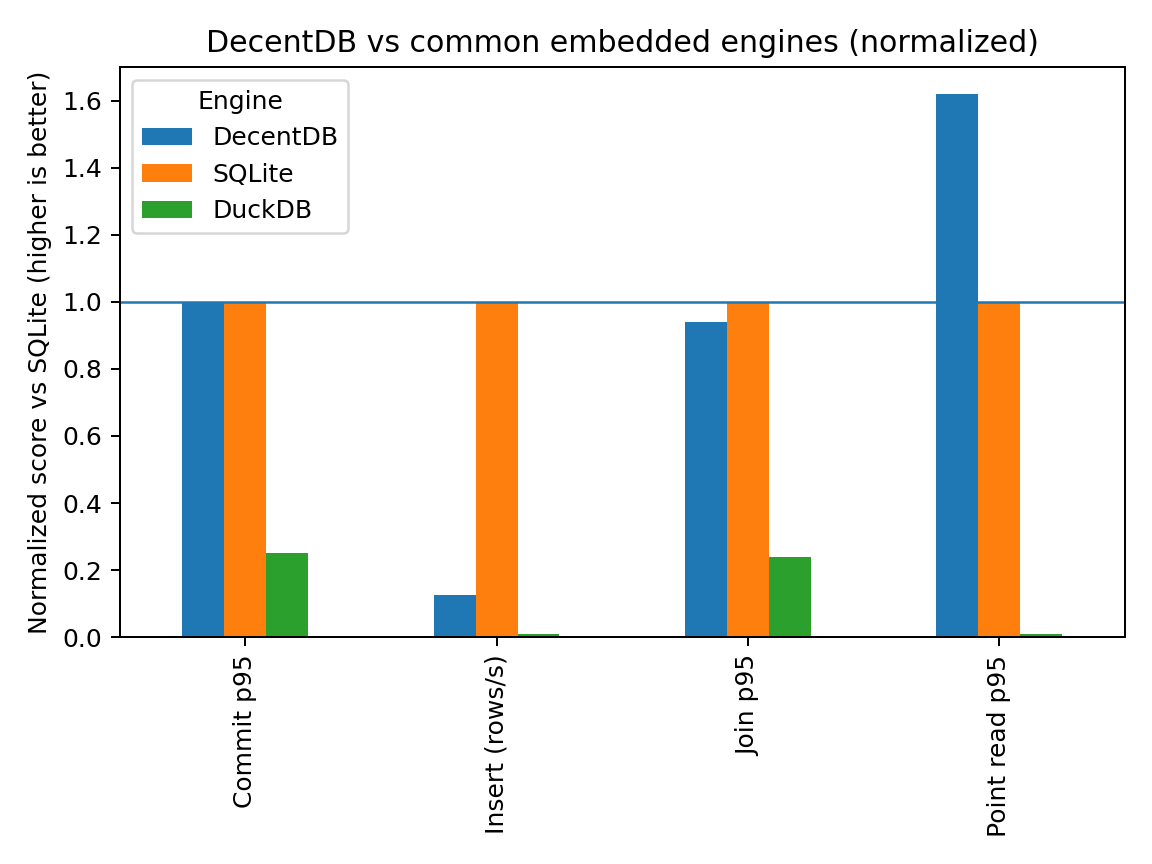
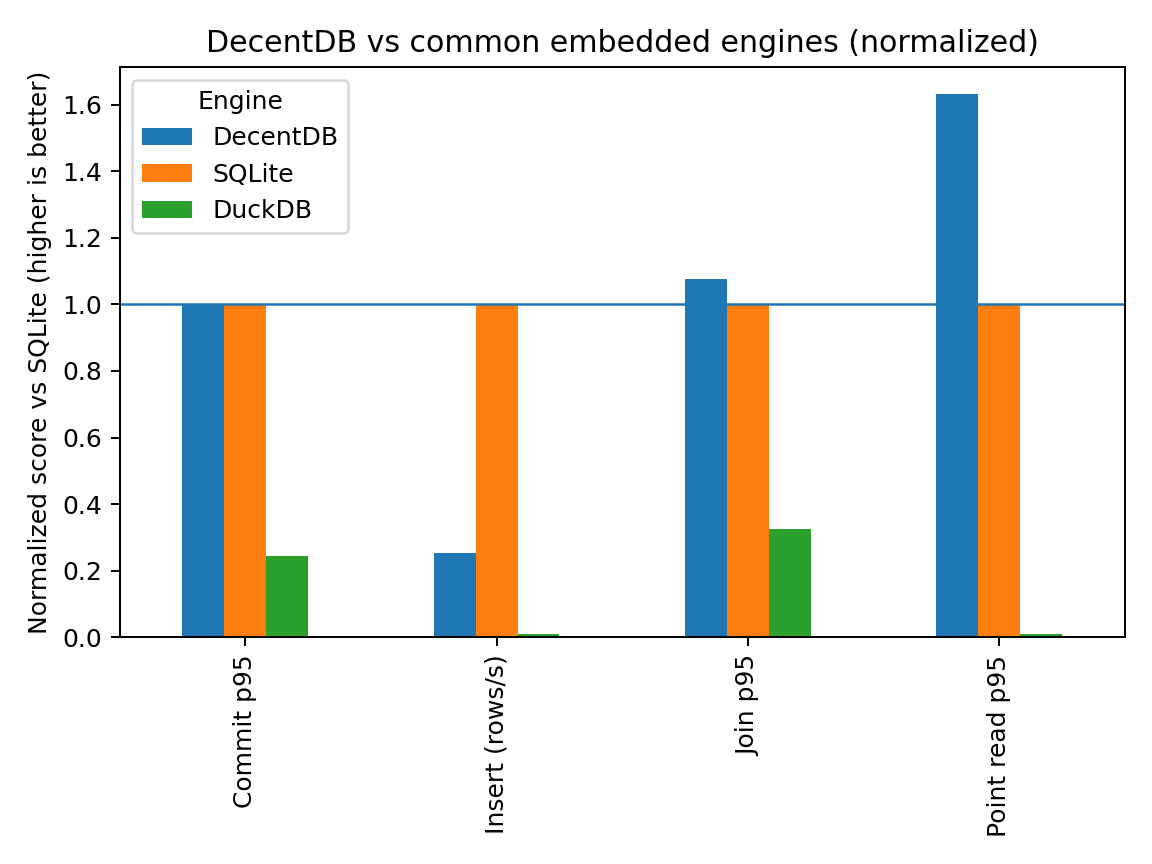
Update benchmark results and SQL Gap Plan for DecentDB
- Updated benchmark summary with new performance metrics for DecentDB, DuckDB, and SQLite, reflecting recent test runs.
- Adjusted the SQL Gap Plan to focus on closing the insert throughput gap between DecentDB and SQLite, including revised baseline metrics and objectives.
- Enhanced clarity on fairness in benchmarking and outlined specific tasks for improving insert performance while maintaining durability and correctness.

diff --git a/design/SQL_GAP_PLAN.md b/design/SQL_GAP_PLAN.md
@@ -1,25 +1,34 @@
-# SQL Gap Plan: Close Commit Latency Gap vs SQLite
+# SQL Gap Plan: Close Insert Throughput Gap vs SQLite
 **Date:** 2026-02-09
 **Status:** Planning document (no implementation)
 
 ## Objective
 
-Reduce the `commit_p95_ms` gap between DecentDB and SQLite in the embedded comparison benchmarks while preserving:
+Reduce the `insert_rows_per_sec` gap between DecentDB and SQLite in the embedded comparison benchmarks while preserving:
 
 - Durable ACID writes by default (fsync-on-commit).
 - Snapshot isolation and reader correctness.
-- No statistically meaningful regressions in other tracked metrics (`read_p95_ms`, `join_p95_ms`, `insert_rows_per_sec`).
+- No statistically meaningful regressions in other tracked metrics (`commit_p95_ms`, `read_p95_ms`, `join_p95_ms`).
 
-Baseline (from `benchmarks/embedded_compare/data/bench_summary.json`, run_id `20260208_223353`):
+Baseline (from `benchmarks/embedded_compare/data/bench_summary.json`, run_id `20260210_003117`, durability `safe`, real disk `--data-dir=.bench_data`):
 
 | Metric | DecentDB | SQLite | Gap |
 |---|---:|---:|---:|
-| `commit_p95_ms` | 0.03723 | 0.009397 | ~3.96x |
-| `read_p95_ms` | 0.001332 | 0.002014 | DecentDB faster |
-| `join_p95_ms` | 0.393489 | 0.399029 | ~parity |
-| `insert_rows_per_sec` | 151,837 | 111,136 | DecentDB faster |
+| `insert_rows_per_sec` | 286,722 | 1,129,688 | ~3.94x (SQLite faster) |
+| `commit_p95_ms` | 3.027207 | 3.017667 | ~parity |
+| `read_p95_ms` | 0.001222 | 0.001993 | DecentDB faster |
+| `join_p95_ms` | 0.409328 | 0.440357 | DecentDB slightly faster |
 
-The commit latency microbenchmark is `runDecentDBCommitLatency` / `runSqliteCommitLatency` in `benchmarks/embedded_compare/run_benchmarks.nim`.
+The insert throughput microbenchmark is `runDecentDBInsert` / `runSqliteInsert` in `benchmarks/embedded_compare/run_benchmarks.nim`.
+
+## Fairness Contract (Non-Negotiable)
+
+We do **not** “game” or “cheat” the benchmarks. Improvements must come from DecentDB internals.
+
+- No DecentDB-only benchmark loop optimizations (e.g., reusing buffers/params/latency arrays only for DecentDB).
+- Any benchmark harness changes must apply equally to all engines or be clearly documented as measuring a different layer.
+- Keep durability comparable (`--durability=safe`), and keep the benchmark disk-backed (`--data-dir=.bench_data`).
+- Target end state: DecentDB **outperforms SQLite fairly and squarely** on the same workload.
 
 ## Constraints (Non-Negotiables)
 
@@ -31,13 +40,11 @@ The commit latency microbenchmark is `runDecentDBCommitLatency` / `runSqliteComm
 
 ## What The Reviews Agree On (Likely Contributors)
 
-These items are repeatedly identified across `design/SQL_GAP_*.md` reviews, and most are visible in current code:
+These items are repeatedly identified across `design/SQL_GAP_*.md` reviews, and most are visible in current code. Some are commit-latency specific; for inserts we expect the dominant costs to sit in the engine → storage → pager → B-tree insert path.
 
 1. **Benchmark timing asymmetry (fix first)**
-   - DecentDB includes parameter marshaling inside the timed region:
-     `toBytes("value" & $i)` occurs after `t0` in `runDecentDBCommitLatency` (`benchmarks/embedded_compare/run_benchmarks.nim`).
-   - SQLite constructs the string before `t0` (`runSqliteCommitLatency`).
-   - This can inflate the apparent engine gap; normalize before attributing wins.
+  - Any timing boundary differences between engines can dominate at microsecond scales.
+  - Do not attribute wins until we have confirmed that per-iteration work (parameter creation/binding, statement execution, commit) is comparable.
 
 2. **WAL “double write” per commit**
    - `src/wal/wal.nim` `WalWriter.commit` appends frames, then updates the WAL header at offset 0 (`writeWalHeader`), then calls `fsync`:
@@ -59,41 +66,36 @@ These items are repeatedly identified across `design/SQL_GAP_*.md` reviews, and 
 
 ## Plan
 
-### Phase 0 (P0): Measurement + Fairness Guardrails
+### Phase 0 (P0): Measurement + “No Cheating” Guardrails
 
-Goal: make sure we are measuring DecentDB, not benchmark harness artifacts, and get a component breakdown so we optimize the right thing.
+Goal: keep the comparison apples-to-apples while we iterate quickly on real engine improvements.
 
 **Tasks**
 
-- [ ] **Normalize commit benchmark timing boundaries**
-  - Update `benchmarks/embedded_compare/run_benchmarks.nim` so DecentDB and SQLite include equivalent parameter construction/binding overhead inside or outside `t0..t1`.
-  - Preferred: move `toBytes(...)` outside the timed region for DecentDB to match SQLite’s current structure, then consider a second run mode that times “full app path” for both engines.
+- [ ] **Keep insert benchmark workload symmetric across engines**
+  - If we ever adjust iteration structure, it must apply to all engines or be explicitly a different benchmark.
+  - Avoid DecentDB-only reuse tricks; those are not allowed as wins.
 
-- [ ] **Add commit latency breakdown instrumentation**
-  - Add per-iteration breakdown (or aggregated counters) for the DecentDB commit benchmark:
-    - parameter marshaling
-    - statement execution (pre-commit)
-    - WAL frame encode/write
-    - WAL header update
-    - fsync
-    - WAL index update + publish (`walEnd.store`)
-  - Keep it behind a compile-time flag (or benchmark-only code) to avoid perturbing production code.
-
-- [ ] **Define a stable benchmark protocol**
-  - Median-of-N runs (N>=5) for comparison.
-  - Ensure `--data-dir` points to real disk (the runner already warns about tmpfs; see `benchmarks/embedded_compare/run_benchmarks.nim`).
-  - Record run manifest details (machine, filesystem, mount, power governor) consistent with `design/COMPARISON_BENCHMARK_PLAN.md` “Fairness Contract”.
+- [ ] **Use breakdown instrumentation to identify the next bottleneck**
+  - Run with `-d:bench_breakdown` periodically to see where time is going (engine vs storage vs pager vs B-tree).
+  - Use aggregated counters (not per-iteration logging) to avoid perturbing timings.
 
 **Exit criteria**
 
-- We can state “top 2 contributors to `commit_p95_ms`” with numbers.
-- `commit_p95_ms` comparison is apples-to-apples across engines.
+- We can name the top contributors to insert time with numbers.
+- We have a stable baseline run_id captured in this doc.
 
-### Phase 1 (P0/P1): Low-Risk Wins (No Format Changes)
+### Phase 1 (P0/P1): Low-Risk Insert Throughput Wins (No Format Changes)
 
-Goal: reduce syscall/CPU overhead without altering WAL/db formats or weakening durability semantics.
+Goal: reduce per-insert CPU/allocations on the hot path without altering WAL/db formats or weakening durability semantics.
 
-**P0: VFS syscall reduction**
+**Likely high ROI areas (based on current insert baseline)**
+
+- B-tree insert path: avoid decoding/encoding and minimize page-touching on sequential workloads.
+- Pager/write path: ensure copy-on-write upgrades and cache entry mutations are minimal.
+- Engine insert execution: minimize per-row allocations when there is no `RETURNING`.
+
+**P0: VFS syscall reduction (guardrail for later)**
 
 - [ ] **Remove per-write `flushFile`**
   - In `src/vfs/os_vfs.nim`, remove `flushFile(file.file)` from `write`/`writeStr`.
@@ -112,15 +114,15 @@ Goal: reduce syscall/CPU overhead without altering WAL/db formats or weakening d
   - Make capacity growth strategy explicit to avoid realloc churn across iterations (especially for small commits).
   - Confirm with Phase 0 breakdown that allocations are on the hot path before investing heavily.
 
-**P1: Reduce generic statement overhead for the commit microbench**
+**P1: Reduce generic statement overhead in insert hot path**
 
 - [ ] **Prepared-statement “write profile”**
-  - For prepared `UPDATE` statements, precompute per-table flags:
+  - For prepared write statements (INSERT/UPDATE/DELETE), precompute per-table flags:
     - does the table have triggers for the event?
     - does it have CHECK/UNIQUE constraints?
     - does it have FKs or act as a parent for any FKs?
     - do any secondary indexes need maintenance for the updated columns?
-  - If the profile indicates “simple update”, take a minimal fast path that avoids repeated catalog scans and trigger discovery.
+  - If the profile indicates “simple insert”, take a minimal fast path that avoids repeated catalog scans and trigger discovery.
 
 - [ ] **Reverse FK lookup cache**
   - Replace the catalog scan in `src/engine.nim` `referencingChildren` with a reverse map in catalog metadata:
@@ -134,30 +136,29 @@ Goal: reduce syscall/CPU overhead without altering WAL/db formats or weakening d
 
 **Exit criteria**
 
-- `commit_p95_ms` improves measurably (median-of-5 runs) with no regressions in other tracked metrics beyond noise thresholds.
+- `insert_rows_per_sec` improves measurably (median-of-5 runs) with no regressions in other tracked metrics beyond noise thresholds.
 
-### Phase 2 (P1/P2): WAL Index + Commit Path Restructuring (No On-Disk Format Change)
+### Phase 2 (P1/P2): Storage/Pager/B-tree Structural Wins (No On-Disk Format Change)
 
-Goal: reduce commit-time work that is currently paid on every transaction, especially for hot-updated pages and no-reader scenarios.
+Goal: reduce page mutations and data movement during insert-heavy workloads while preserving snapshot semantics.
 
 **Tasks**
 
-- [ ] **WAL index pruning keyed to active readers**
-  - If there are no active readers, retain only the latest version per page in the in-memory WAL index.
-  - If readers exist, retain only versions needed for the oldest active snapshot (min snapshot LSN).
-  - Add targeted tests for snapshot correctness and recovery behavior with long-running readers (see `design/SPEC.md` snapshot rules; `design/TESTING_STRATEGY.md` concurrency/crash testing).
+- [ ] **Minimize root/metadata writes on sequential inserts**
+  - For the common case “append to rightmost leaf,” avoid touching internal nodes unless the tree height changes.
+  - Ensure any cached-rightmost-leaf optimization remains correct under splits and under concurrent readers.
 
-- [ ] **Evaluate commit-critical-path ordering**
-  - `WalWriter.commit` updates the WAL index after `fsync`. Confirm via Phase 0 breakdown whether index update is a meaningful fraction of latency.
-  - If it is, evaluate safe reordering or batching that does not violate:
-    - readers only seeing data after durable commit (publication via `walEnd.store(moRelease)`)
-    - writer “read-your-writes” behavior
+- [ ] **Avoid redundant page header writes**
+  - Where safe, update only the necessary fields and avoid rewriting large page buffers when changes are localized.
 
-### Phase 3 (ADR Required): Remove WAL Header Rewrite From Commit
+- [ ] **Validate lock ordering and pin/unpin correctness**
+  - Performance wins must not introduce deadlocks, hangs, or reader-writer correctness regressions.
 
-This is the highest potential impact item, but it crosses into recovery semantics and possibly format changes. It should be attempted only if Phases 1–2 leave a material gap.
+### Phase 3 (ADR Required): Bigger Swings (Only If Needed)
 
-**Background**
+These are high-impact but higher-risk items that may require format or semantic changes. Do not implement without following ADR workflow.
+
+**Candidate A: WAL header rewrite removal from commit**
 
 - Current WAL format (SPEC v8) uses `wal_end_offset` in the fixed header and recovery scans only up to it.
 - `WalWriter.commit` writes frames then rewrites the header with the new end offset, then fsyncs.
@@ -183,7 +184,7 @@ This is the highest potential impact item, but it crosses into recovery semantic
 
 **Exit criteria**
 
-- `commit_p95_ms` approaches SQLite (target: <= 1.5x gap) without any durability/correctness regression under crash-injection and differential tests.
+- `insert_rows_per_sec` approaches SQLite and keeps improving beyond parity (target: exceed SQLite fairly) without any durability/correctness regression under crash-injection and differential tests.
 
 ## Validation and Gating
 
@@ -198,10 +199,10 @@ For each change:
 
 Suggested guardrails (per-change, median-of-5 runs):
 
-- `commit_p95_ms`: must improve.
+- `insert_rows_per_sec`: must improve.
 - `read_p95_ms`: must not worsen beyond noise (target <= +2%).
 - `join_p95_ms`: must not worsen beyond noise (target <= +2%).
-- `insert_rows_per_sec`: must not decrease beyond noise (target >= -2%).
+- `commit_p95_ms`: must not worsen beyond noise (target <= +2%).
 
 ## Explicitly Deferred / Out Of Scope For This Plan
 
